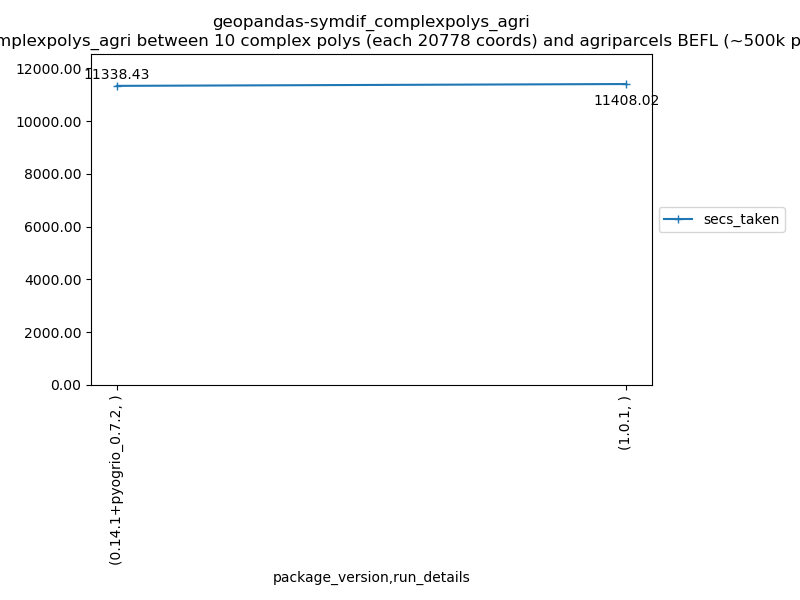
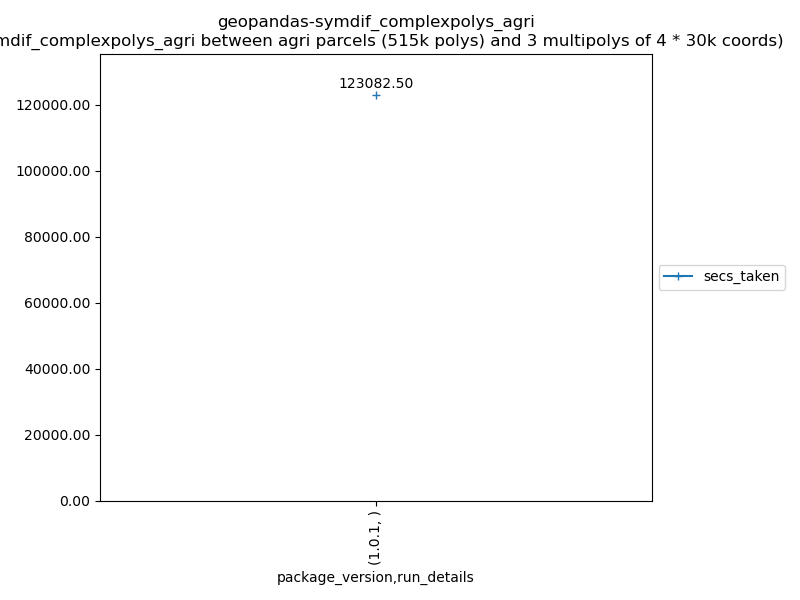
ENH: increase complexity of symdif_complexpolys_agri (#48)
To be able to clearly see performance difference between geofileops 0.9.1 and 0.10.0

diff --git a/reporter.py b/reporter.py
@@ -94,9 +94,13 @@ def generate_reports(results_path: Path, output_dir: Path):
     )[["package", "version", "version_suffix", "operation", "secs_taken"]]
     # Only keep the last benchmark result value for the same package+operation+version,
     # otherwise pivot_table takes the average seconds
-    benchmark_maxversion_df = benchmark_maxversion_df.groupby(
-        by=["package", "version", "version_suffix","operation"]
-    ).last().reset_index()
+    benchmark_maxversion_df = (
+        benchmark_maxversion_df.groupby(
+            by=["package", "version", "version_suffix", "operation"]
+        )
+        .last()
+        .reset_index()
+    )
     benchmark_maxversion_df = benchmark_maxversion_df.pivot_table(
         index="operation", columns=["package", "version", "version_suffix"]
     )
@@ -105,7 +109,7 @@ def generate_reports(results_path: Path, output_dir: Path):
     results_report_path = output_dir / "GeoBenchmark.png"
     save_chart(
         df=benchmark_maxversion_df,
-        title="Comparison of libraries, time in sec",
+        title="Comparison of libraries, time in sec\n",
         output_path=results_report_path,
         yscale="log",
         print_labels_on_points=True,
@@ -144,8 +148,8 @@ def save_chart(
     Render and save a chart.
 
     Args:
-        df (pd.DataFrame): _description_
-        title (str): _description_
+        df (pd.DataFrame): The data to plot. The index should be the x axis values.
+        title (str): The title of the chart.
         output_path (Path): _description_
         yscale (Literal["linear", "log", "symlog", "logit"], optional): y scale to use.
         y_value_formatter (str, optional): a formatter for the y axes and
@@ -272,8 +276,8 @@ def save_chart(
 
 
 if __name__ == "__main__":
-    # results_dir = Path(__file__).resolve().parent / "results_vector_ops"
-    results_dir = Path(__file__).resolve().parent / "results_zonalstats"
+    results_dir = Path(__file__).resolve().parent / "results_vector_ops"
+    # results_dir = Path(__file__).resolve().parent / "results_zonalstats"
     results_path = results_dir / "benchmark_results.csv"
     output_dir = results_dir
     generate_reports(results_path, output_dir)

diff --git a/benchmarks_vector_ops/benchmarks_geofileops.py b/benchmarks_vector_ops/benchmarks_geofileops.py
@@ -212,6 +212,20 @@ def _join_by_location_intersects(tmp_dir: Path) -> RunResult:
 
 
 def symdif_complexpolys_agri(tmp_dir: Path) -> RunResult:
+    """Symmetric difference between very complex polygons and standard polygons.
+
+    The complex polygons are created as such:
+
+        - each geometry is a multipolygon with several polygons
+        - each polygon has a large number of points
+        - the area for each (multipolygon) is a lot larger than the standard polygons,
+          so each complex polygon interacts with many standard polygons
+
+    Changelog:
+
+        - 2025-01-23: make complex polygons a lot more complex to be able to see the
+          difference between geofileops 0.9.1 and 0.10.0
+    """
     # Init
     function_name = inspect.currentframe().f_code.co_name  # type: ignore[union-attr]
 
@@ -221,11 +235,11 @@ def symdif_complexpolys_agri(tmp_dir: Path) -> RunResult:
     crs = info1.crs
     input2_path, input2_descr = testdata.create_testfile(
         bbox=bbox,
-        geoms=12,
-        polys_per_geom=1,
+        geoms=3,
+        polys_per_geom=4,
         points_per_poly=30_000,
-        poly_width=15_000,
-        poly_height=15_000,
+        poly_width=30_000,
+        poly_height=30_000,
         crs=crs,
         dst_dir=tmp_dir,
     )

diff --git a/benchmarks_vector_ops/benchmarks_geopandas.py b/benchmarks_vector_ops/benchmarks_geopandas.py
@@ -216,6 +216,20 @@ def intersection(tmp_dir: Path) -> RunResult:
 
 
 def symdif_complexpolys_agri(tmp_dir: Path) -> RunResult:
+    """Symmetric difference between very complex polygons and standard polygons.
+
+    The complex polygons are created as such:
+
+        - each geometry is a multipolygon with several polygons
+        - each polygon has a large number of points
+        - the area for each (multipolygon) is a lot larger than the standard polygons,
+          so each complex polygon interacts with many standard polygons
+
+    Changelog:
+
+        - 2025-01-23: make complex polygons a lot more complex to be able to see the
+          difference between geofileops 0.9.1 and 0.10.0
+    """
     # Init
     function_name = inspect.currentframe().f_code.co_name  # type: ignore[union-attr]
 
@@ -225,11 +239,11 @@ def symdif_complexpolys_agri(tmp_dir: Path) -> RunResult:
     crs = info1.crs
     input2_path, input2_descr = testdata.create_testfile(
         bbox=bbox,
-        geoms=12,
-        polys_per_geom=1,
+        geoms=3,
+        polys_per_geom=4,
         points_per_poly=30_000,
-        poly_width=15_000,
-        poly_height=15_000,
+        poly_width=30_000,
+        poly_height=30_000,
         crs=crs,
         dst_dir=tmp_dir,
     )

diff --git a/run_benchmarks_vector_ops.py b/run_benchmarks_vector_ops.py
@@ -8,11 +8,11 @@ def main():
         benchmarker.run_benchmarks(
             benchmarks_subdir="benchmarks_vector_ops",
             results_subdir="results_vector_ops",
-            # modules=["benchmarks_geofileops"],
-            modules=["benchmarks_geopandas"],
+            modules=["benchmarks_geofileops"],
+            # modules=["benchmarks_geopandas"],
             # modules=["benchmarks_dask_geopandas"],
             # functions=["buffer"],
-            # functions=["symdif_complexpolys_agri"],
+            functions=["symdif_complexpolys_agri"],
         )
         return
 
